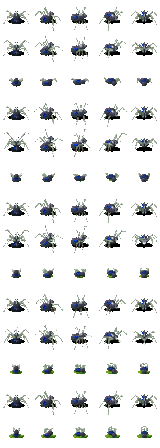
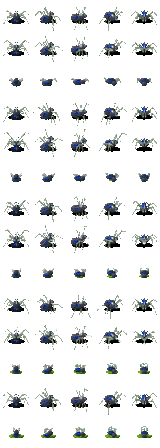
Proper walk cycles for the Abomination and Crypt Fiend
The move frames were nearly identical to the standing frame (2px stride,
shrunk to ~1.5px, and no leg motion at all facing north/south), so both
units seemed to slide. Bigger strides, lifted swing legs, body bob, a
heavy side-to-side waddle for the Abomination and an alternating
four-leg gait for the Crypt Fiend.

Claude-Session: https://claude.ai/code/session_01So1hoPvMbJfrqwqwmZsG57

diff --git a/scripts/build_crypt_fiend.py b/scripts/build_crypt_fiend.py
@@ -57,8 +57,11 @@ def draw_frame(cv, col, anim, step):
     cx, cy = 24, 26
     rear = 0      # how far the front end lifts (attack)
     stride = 0
+    bob = 0
     if anim == "move":
-        stride = (-2, 0, 2, 0)[step]
+        # alternating tetrapod gait: one set of four legs swings while lifted
+        stride = (-5, 0, 5, 0)[step]
+        bob = (0, -1, 0, -1)[step]
     elif anim == "attack":
         rear = (2, 5, 4, 1)[step]
 
@@ -66,24 +69,30 @@ def draw_frame(cv, col, anim, step):
     ax, ay = fx, fy * 0.75
     side = (-fy, fx) if col not in (0, 4) else (1, 0)
 
+    cy += bob
     abdomen = (cx - ax * 6, cy - ay * 6)
     thorax = (cx + ax * 1, cy + ay * 1 - rear * 0.5)
     head = (cx + ax * 6, cy + ay * 6 - 3 - rear)
 
-    cv.ellipse(cx, cy + 6, 13, 4, [SHADOW])
+    cv.ellipse(cx, cy + 6 - bob, 13, 4, [SHADOW])
 
     # legs: 4 per side, attached along the thorax
     legs = []
     for s in (-1, 1):
         for i, along in enumerate((2.5, 0.8, -0.8, -2.5)):
-            phase = stride if (i + (s > 0)) % 2 else -stride
+            group = (i + (s > 0)) % 2
+            phase = stride if group else -stride
+            lifted = anim == "move" and ((step == 1 and group) or (step == 3 and not group))
             bx = thorax[0] + ax * along + side[0] * s * 2
             by = thorax[1] + ay * along + side[1] * s * 1.5
             spread = 1.0 + 0.35 * abs(along)
             kx = bx + side[0] * s * 6.5 * spread + ax * along * 1.5 + ax * phase * 0.5
             ky = by + side[1] * s * 5 * spread + ay * along * 1.5 - 5
             tx = bx + side[0] * s * 9.5 * spread + ax * along * 3 + ax * phase
-            ty = by + side[1] * s * 8 * spread + ay * along * 3 + 3
+            ty = by + side[1] * s * 8 * spread + ay * along * 3 + 3 + ay * phase * 0.8
+            if lifted:  # swinging legs come off the ground, knee high
+                ky -= 3
+                ty -= 3.5
             if anim == "attack" and i == 0:  # front legs lift up when rearing
                 ky -= rear * 1.5
                 ty -= rear * 2.5

diff --git a/scripts/build_abomination.py b/scripts/build_abomination.py
@@ -198,13 +198,19 @@ def draw_frame(cv, col, anim, step):
 
     bob = 0
     stride = 0
+    sway = 0
+    lift = (0, 0)  # (far leg, near leg) foot lift
     if anim == "move":
-        stride = (-2, 0, 2, 0)[step]
-        bob = (0, -1, 0, -1)[step]
+        # heavy waddle: contact - passing - contact - passing
+        stride = (-5, 0, 5, 0)[step]
+        bob = (1, -1, 1, -1)[step]
+        sway = (-2, 0, 2, 0)[step]
+        lift = ((0, 0), (0, 4), (0, 0), (4, 0))[step]
     elif anim == "attack":
         bob = (0, -1, 0, 1, 0)[step]
 
-    cx, cy = 24 + fx * 1, 25 + bob
+    # sideways sway shows best when facing towards/away from the camera
+    cx, cy = 24 + fx * 1 + round(sway * (1 - abs(fx) * 0.6)), 25 + bob
     rx, ry = 12, 11
 
     # side axis in screen space (the unit's left/right)
@@ -228,7 +234,8 @@ def draw_frame(cv, col, anim, step):
         lx = cx + side[0] * 5 - fx * 1
         ly = cy + 8 + side[1] * 2
         off = stride if k else -stride
-        foot = (lx + fx * off, ly + 7 + fy * off * 0.5)
+        # side views step along the facing; front/back views step up/down
+        foot = (lx + fx * off, ly + 7 + fy * off * 0.6 - lift[k])
         cv.line(lx, ly, foot[0], foot[1], FLESH_DK, 5, FLESH_SH)
         cv.line(foot[0] - 2, foot[1] + 1, foot[0] + 2 + fx, foot[1] + 1, FLESH_SH, 2)
 
